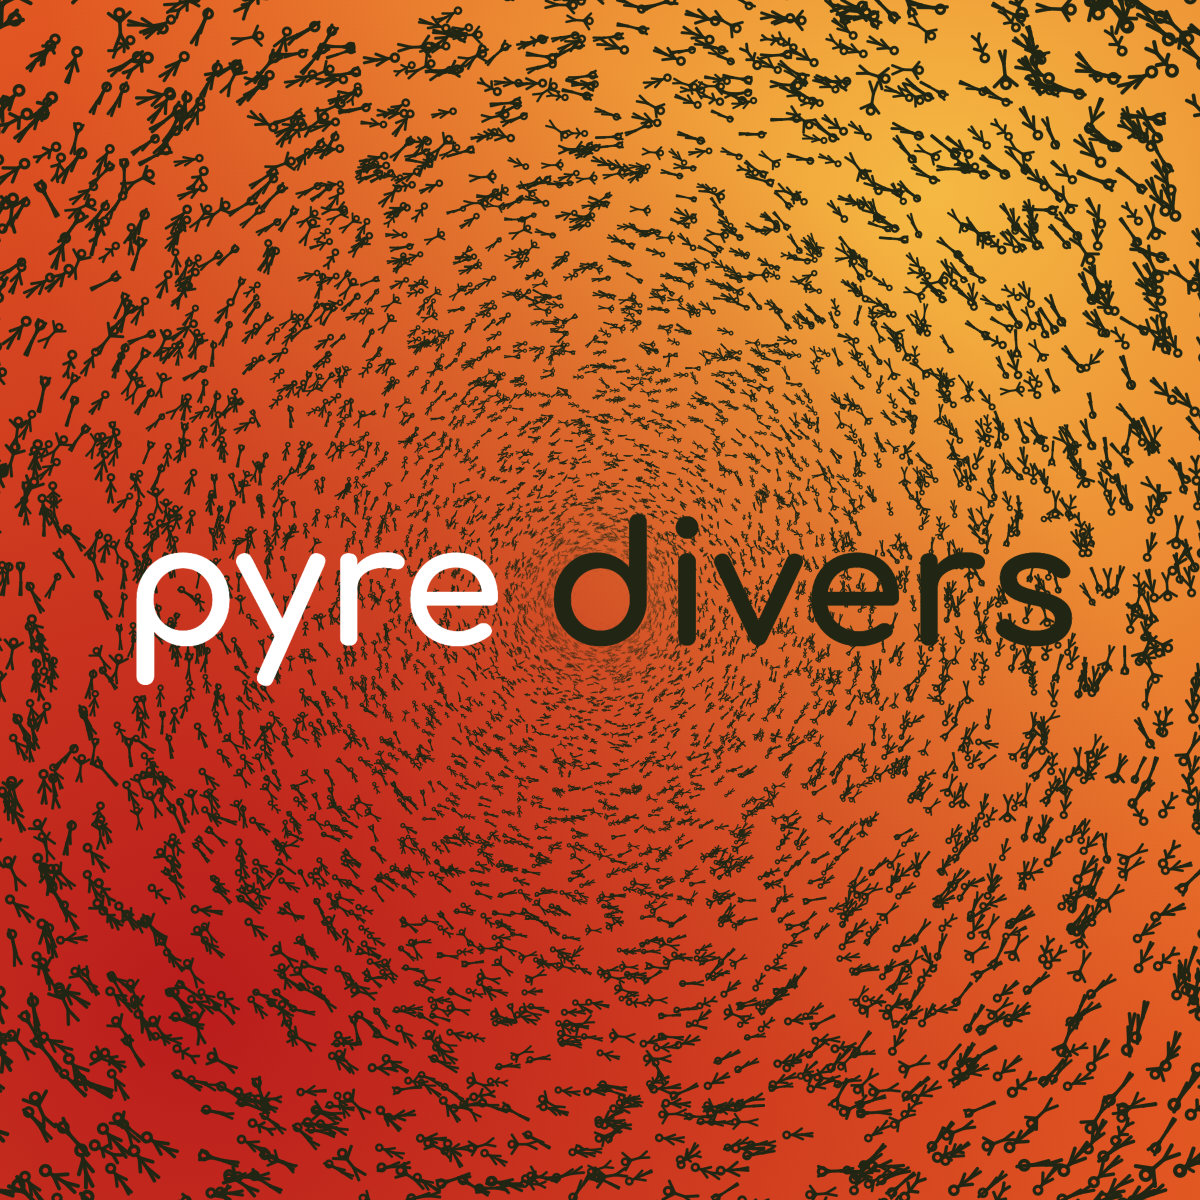
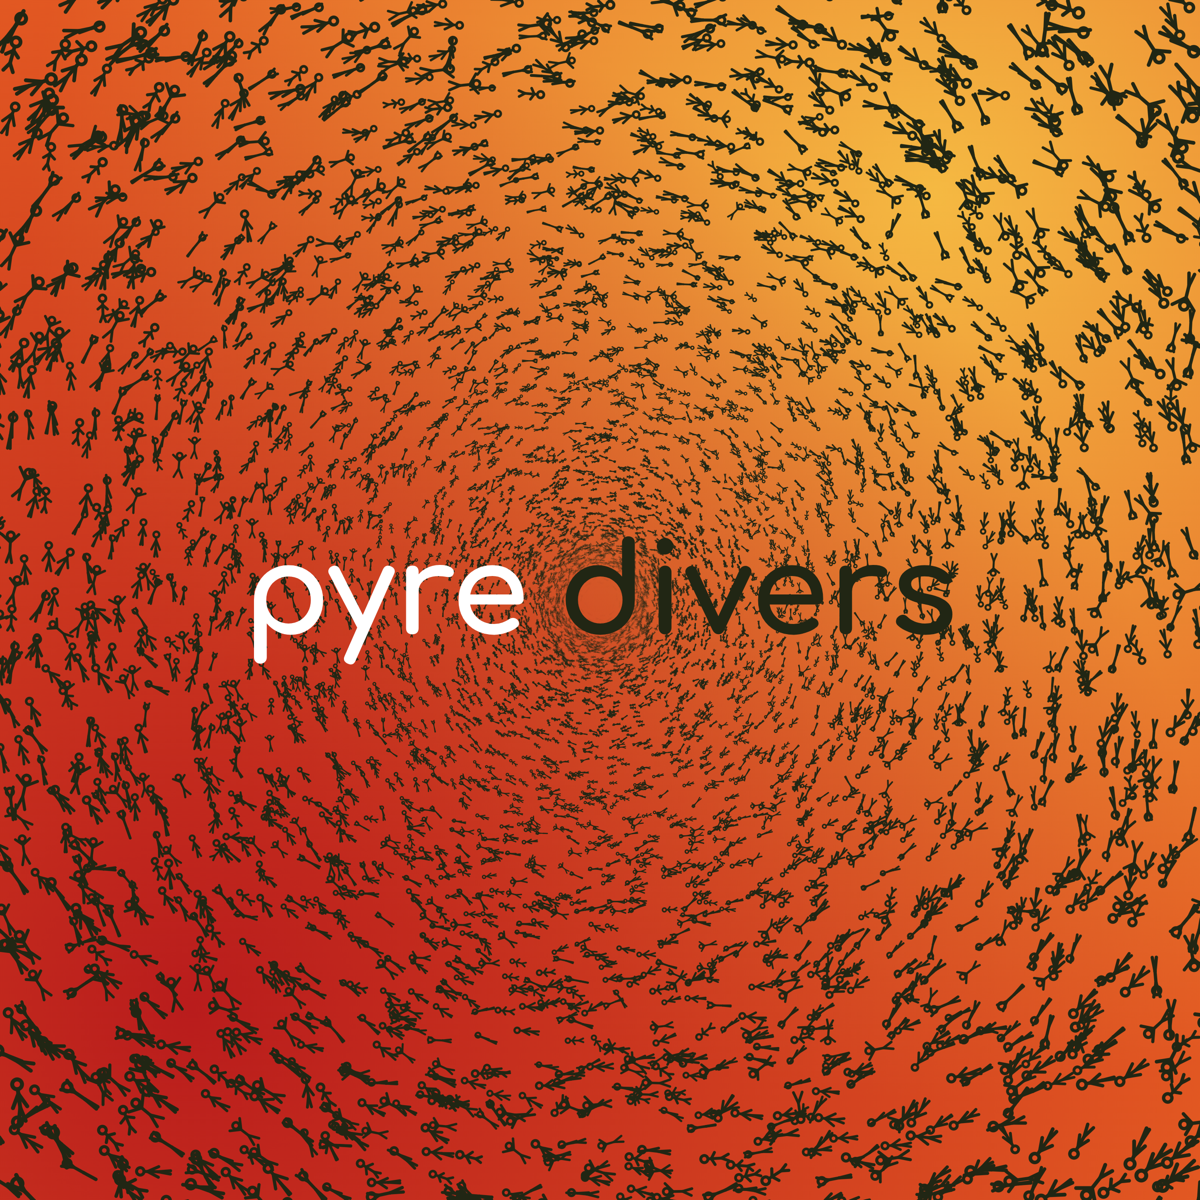
fix: og crop — wide-context capture, single og:image
previews were tiling both og:image entries and cover-cropping into the
wordmark. recaptured from 2800/2600-wide viewports (wordmark ~57% of
frame, full vortex) downscaled to spec, and only og.png is declared now;
og-square.png stays in the repo for manual platform uploads.

Claude-Session: https://claude.ai/code/session_018Q1bCwbYmVz9Lfi4bP19s4

diff --git a/index.html b/index.html
@@ -16,9 +16,6 @@
 <meta property="og:image:width" content="1200">
 <meta property="og:image:height" content="630">
 <meta property="og:image:alt" content="a whirlpool of tiny hand-drawn stick figures on an ember gradient, with the wordmark: pyre divers">
-<meta property="og:image" content="https://pyredivers.com/og-square.png">
-<meta property="og:image:width" content="1200">
-<meta property="og:image:height" content="1200">
 <meta property="og:locale" content="en_US">
 <meta name="twitter:card" content="summary_large_image">
 <meta name="twitter:title" content="pyre divers">